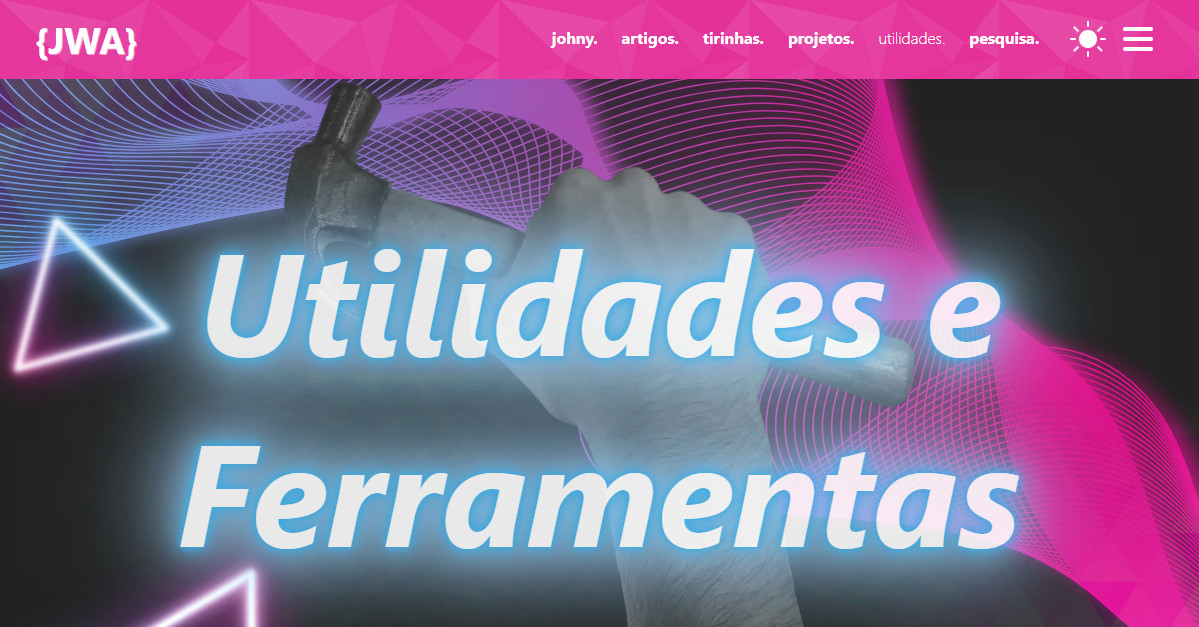
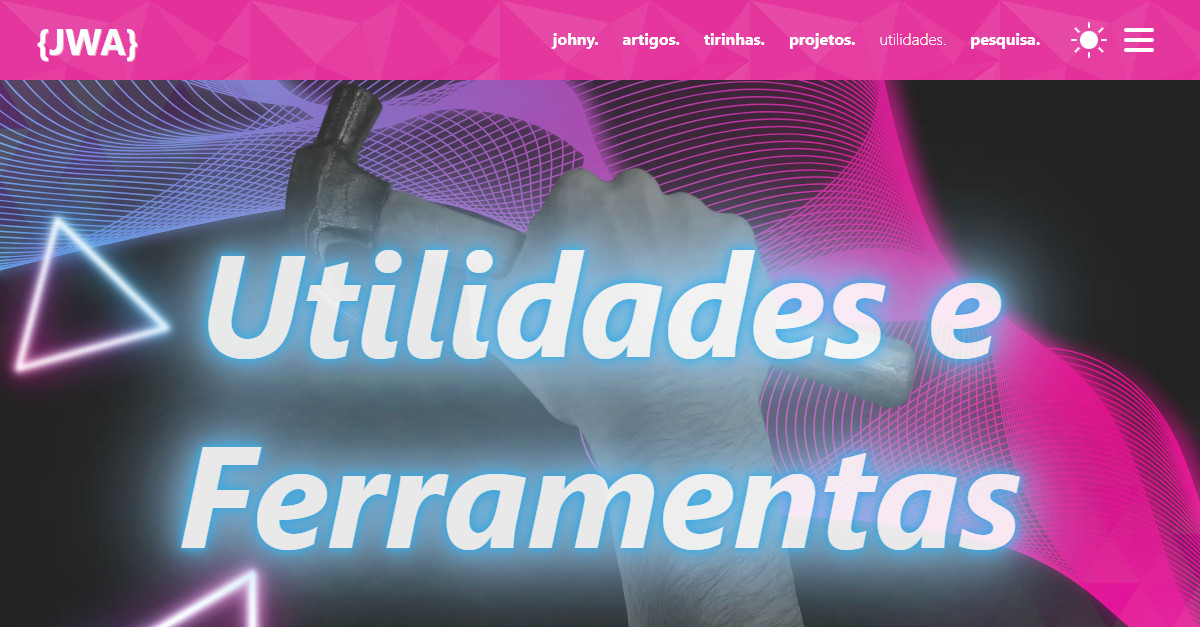
:mag: Padronização dos thumbnail dos metadados

diff --git a/src/components/seo.jsx b/src/components/seo.jsx
@@ -34,8 +34,8 @@ function SEO({
   const metaDescription = limitText(155, description || site.siteMetadata.description)
   const pathImage = `${site.siteMetadata.siteUrl}${image || "/figures/thumbnail.jpg"}`
   const pathIcon = `${site.siteMetadata.siteUrl}/figures/favicon.png`
-  const sizeImageWidth = imagenWidth || 900
-  const sizeImageHeight = imageHeight || 600
+  const sizeImageWidth = imagenWidth || 1200
+  const sizeImageHeight = imageHeight || 627
   const urlContent = `${site.siteMetadata.siteUrl}${location.pathname}`
 
   return (

diff --git a/pos-run.js b/pos-run.js
@@ -43,7 +43,7 @@ async function getResumeAndCoverLetter(servingUrl, page, language) {
 async function getThumbnail(url, page, filename) {
   await page.goto(url, { waitUntil: "networkidle0" })
 
-  await page.setViewport({ width: 1200, height: 628, deviceScaleFactor: 1 })
+  await page.setViewport({ width: 1200, height: 627, deviceScaleFactor: 1 })
 
   await page.screenshot({
     path: `./public/figures/${filename}.jpg`,

diff --git a/static/extras/graphic-ano-realizacoes.js b/static/extras/graphic-ano-realizacoes.js
@@ -270,6 +270,8 @@ function drawGraphic() {
     { date: "2023-07-06", weight: 101.6 },
     { date: "2023-07-07", weight: 102.7 },
     { date: "2023-07-08", weight: 100.8 },
+    { date: "2023-07-09", weight: 102.2 },
+    { date: "2023-07-10", weight: 101.5 },
   ]
 
   const data = raw.map((elem, index) => ({ day: index + 1, ...elem }))

diff --git a/src/pages/utils/e0138c.jsx b/src/pages/utils/e0138c.jsx
@@ -28,8 +28,6 @@ export const Head = ({ location }) => (
   <Seo
     location={location}
     title={titlePage}
-    imagenWidth={1200}
-    imageHeight={628}
     description={descriptionPage}
     image={thumbnailPage}
   />

diff --git a/src/pages/utils/index.jsx b/src/pages/utils/index.jsx
@@ -31,8 +31,6 @@ export const Head = ({ location }) => (
   <Seo
     location={location}
     title={titlePage}
-    imagenWidth={1200}
-    imageHeight={628}
     description={descriptionPage}
     image={thumbnailPage}
   />
